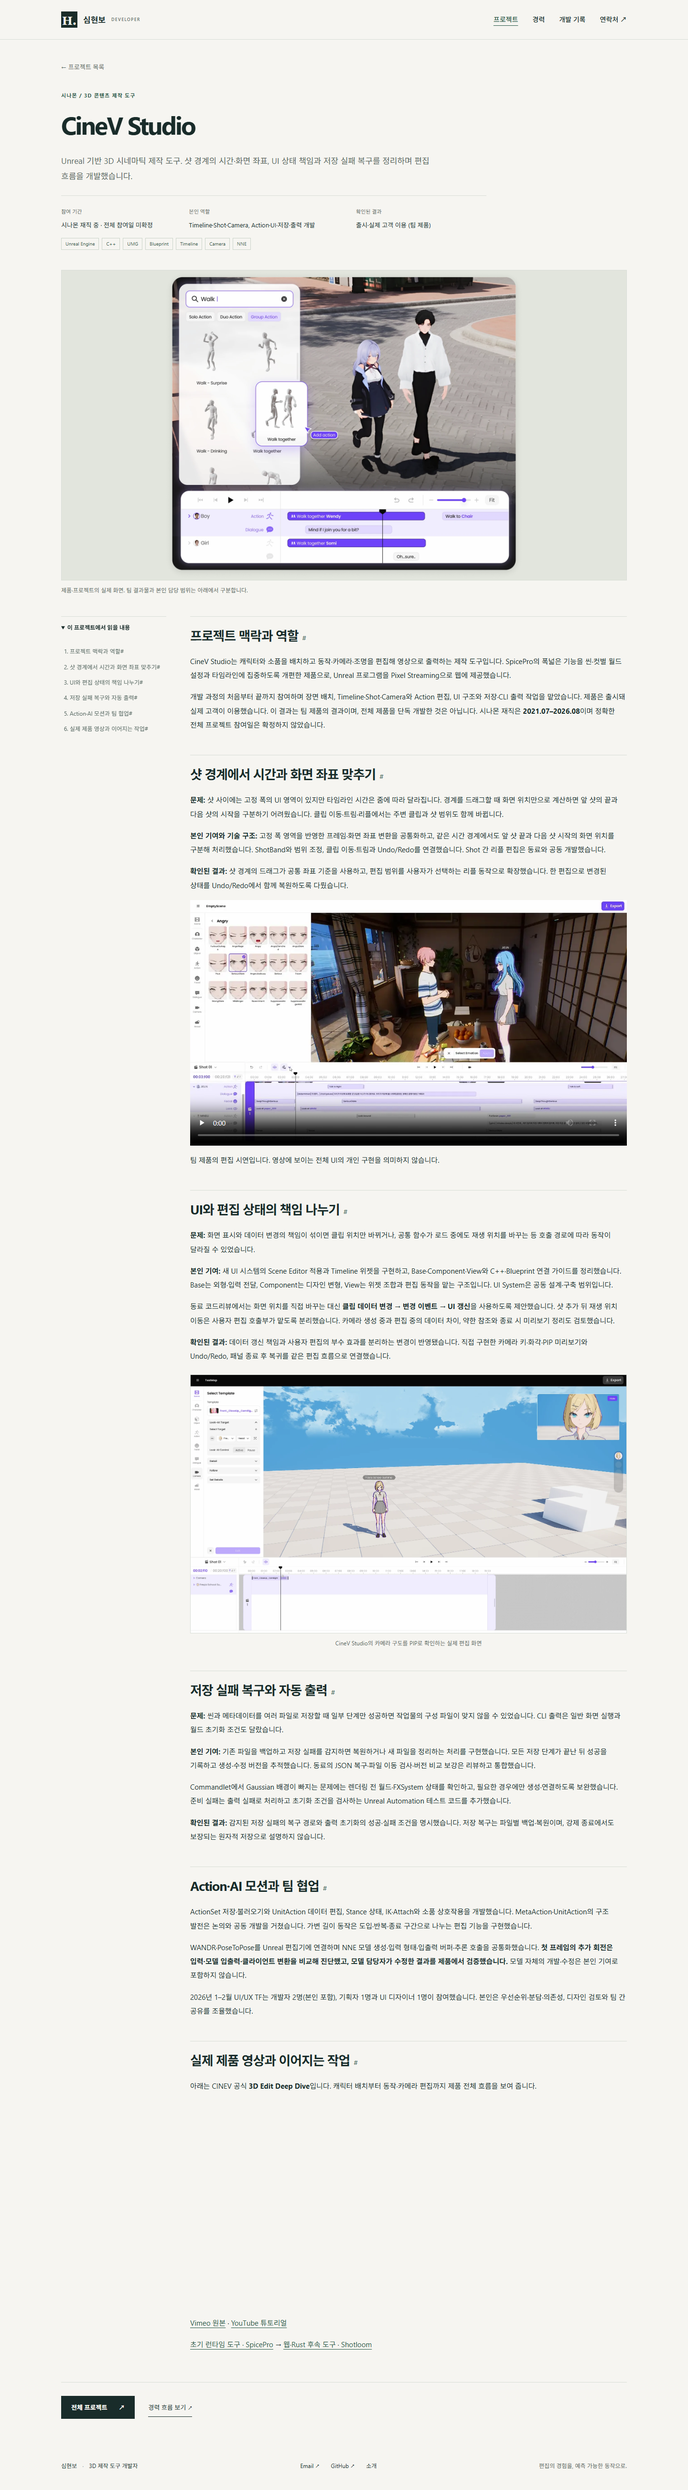
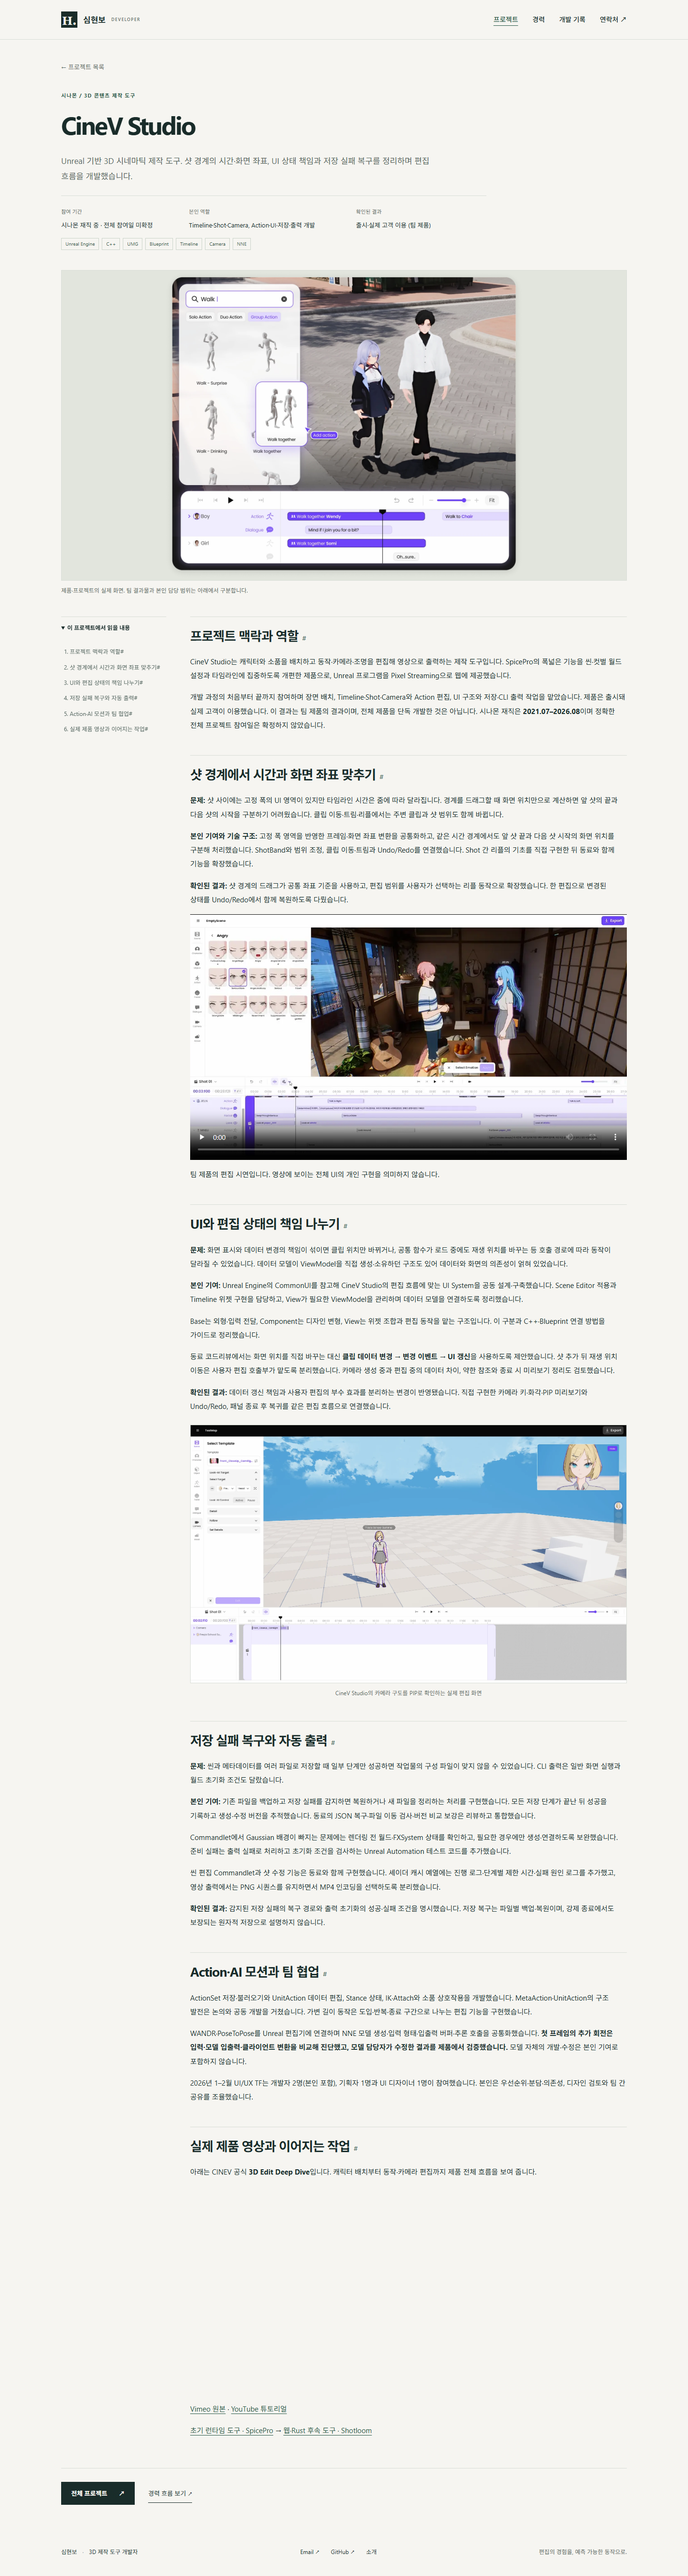
docs(cinev): Restore contribution context

diff --git a/src/content/projects/cinevstudio.md b/src/content/projects/cinevstudio.md
@@ -24,7 +24,7 @@ CineV Studio는 캐릭터와 소품을 배치하고 동작·카메라·조명을
 
 **문제:** 샷 사이에는 고정 폭의 UI 영역이 있지만 타임라인 시간은 줌에 따라 달라집니다. 경계를 드래그할 때 화면 위치만으로 계산하면 앞 샷의 끝과 다음 샷의 시작을 구분하기 어려웠습니다. 클립 이동·트림·리플에서는 주변 클립과 샷 범위도 함께 바뀝니다.
 
-**본인 기여와 기술 구조:** 고정 폭 영역을 반영한 프레임·화면 좌표 변환을 공통화하고, 같은 시간 경계에서도 앞 샷 끝과 다음 샷 시작의 화면 위치를 구분해 처리했습니다. ShotBand와 범위 조정, 클립 이동·트림과 Undo/Redo를 연결했습니다. Shot 간 리플 편집은 동료와 공동 개발했습니다.
+**본인 기여와 기술 구조:** 고정 폭 영역을 반영한 프레임·화면 좌표 변환을 공통화하고, 같은 시간 경계에서도 앞 샷 끝과 다음 샷 시작의 화면 위치를 구분해 처리했습니다. ShotBand와 범위 조정, 클립 이동·트림과 Undo/Redo를 연결했습니다. Shot 간 리플의 기초를 직접 구현한 뒤 동료와 함께 기능을 확장했습니다.
 
 **확인된 결과:** 샷 경계의 드래그가 공통 좌표 기준을 사용하고, 편집 범위를 사용자가 선택하는 리플 동작으로 확장했습니다. 한 편집으로 변경된 상태를 Undo/Redo에서 함께 복원하도록 다뤘습니다.
 
@@ -37,9 +37,11 @@ CineV Studio는 캐릭터와 소품을 배치하고 동작·카메라·조명을
 
 ## UI와 편집 상태의 책임 나누기
 
-**문제:** 화면 표시와 데이터 변경의 책임이 섞이면 클립 위치만 바뀌거나, 공통 함수가 로드 중에도 재생 위치를 바꾸는 등 호출 경로에 따라 동작이 달라질 수 있었습니다.
+**문제:** 화면 표시와 데이터 변경의 책임이 섞이면 클립 위치만 바뀌거나, 공통 함수가 로드 중에도 재생 위치를 바꾸는 등 호출 경로에 따라 동작이 달라질 수 있었습니다. 데이터 모델이 ViewModel을 직접 생성·소유하던 구조도 있어 데이터와 화면의 의존성이 얽혀 있었습니다.
 
-**본인 기여:** 새 UI 시스템의 Scene Editor 적용과 Timeline 위젯을 구현하고, Base·Component·View와 C++·Blueprint 연결 가이드를 정리했습니다. Base는 외형·입력 전달, Component는 디자인 변형, View는 위젯 조합과 편집 동작을 맡는 구조입니다. UI System은 공동 설계·구축 범위입니다.
+**본인 기여:** Unreal Engine의 CommonUI를 참고해 CineV Studio의 편집 흐름에 맞는 UI System을 공동 설계·구축했습니다. Scene Editor 적용과 Timeline 위젯 구현을 담당하고, View가 필요한 ViewModel을 관리하며 데이터 모델을 연결하도록 정리했습니다.
+
+Base는 외형·입력 전달, Component는 디자인 변형, View는 위젯 조합과 편집 동작을 맡는 구조입니다. 이 구분과 C++·Blueprint 연결 방법을 가이드로 정리했습니다.
 
 동료 코드리뷰에서는 화면 위치를 직접 바꾸는 대신 **클립 데이터 변경 → 변경 이벤트 → UI 갱신**을 사용하도록 제안했습니다. 샷 추가 뒤 재생 위치 이동은 사용자 편집 호출부가 맡도록 분리했습니다. 카메라 생성 중과 편집 중의 데이터 차이, 약한 참조와 종료 시 미리보기 정리도 검토했습니다.
 
@@ -54,6 +56,8 @@ CineV Studio는 캐릭터와 소품을 배치하고 동작·카메라·조명을
 **본인 기여:** 기존 파일을 백업하고 저장 실패를 감지하면 복원하거나 새 파일을 정리하는 처리를 구현했습니다. 모든 저장 단계가 끝난 뒤 성공을 기록하고 생성·수정 버전을 추적했습니다. 동료의 JSON 복구·파일 이동 검사·버전 비교 보강은 리뷰하고 통합했습니다.
 
 Commandlet에서 Gaussian 배경이 빠지는 문제에는 렌더링 전 월드·FXSystem 상태를 확인하고, 필요한 경우에만 생성·연결하도록 보완했습니다. 준비 실패는 출력 실패로 처리하고 초기화 조건을 검사하는 Unreal Automation 테스트 코드를 추가했습니다.
+
+씬 편집 Commandlet과 샷 수정 기능은 동료와 함께 구현했습니다. 셰이더 캐시 예열에는 진행 로그·단계별 제한 시간·실패 원인 로그를 추가했고, 영상 출력에서는 PNG 시퀀스를 유지하면서 MP4 인코딩을 선택하도록 분리했습니다.
 
 **확인된 결과:** 감지된 저장 실패의 복구 경로와 출력 초기화의 성공·실패 조건을 명시했습니다. 저장 복구는 파일별 백업·복원이며, 강제 종료에서도 보장되는 원자적 저장으로 설명하지 않습니다.
 
@@ -71,7 +75,7 @@ WANDR·PoseToPose를 Unreal 편집기에 연결하며 NNE 모델 생성·입력 
 
 아래는 CINEV 공식 **3D Edit Deep Dive**입니다. 캐릭터 배치부터 동작·카메라 편집까지 제품 전체 흐름을 보여 줍니다.
 
-<iframe src="https://player.vimeo.com/video/1177171671" title="CINEV 공식 3D Edit Deep Dive" width="1280" height="608" loading="lazy" allow="fullscreen; picture-in-picture; encrypted-media" allowfullscreen referrerpolicy="strict-origin-when-cross-origin" style="width:100%;height:auto;aspect-ratio:1280/608;border:0;"></iframe>
+<iframe src="https://player.vimeo.com/video/1177171671?dnt=1" title="CINEV 공식 3D Edit Deep Dive" width="1280" height="608" loading="lazy" allow="fullscreen; picture-in-picture; encrypted-media" allowfullscreen referrerpolicy="strict-origin-when-cross-origin" style="width:100%;height:auto;aspect-ratio:1280/608;border:0;"></iframe>
 
 [Vimeo 원본](https://vimeo.com/1177171671) · [YouTube 튜토리얼](https://www.youtube.com/watch?v=GKxlZUpQN44)
 
